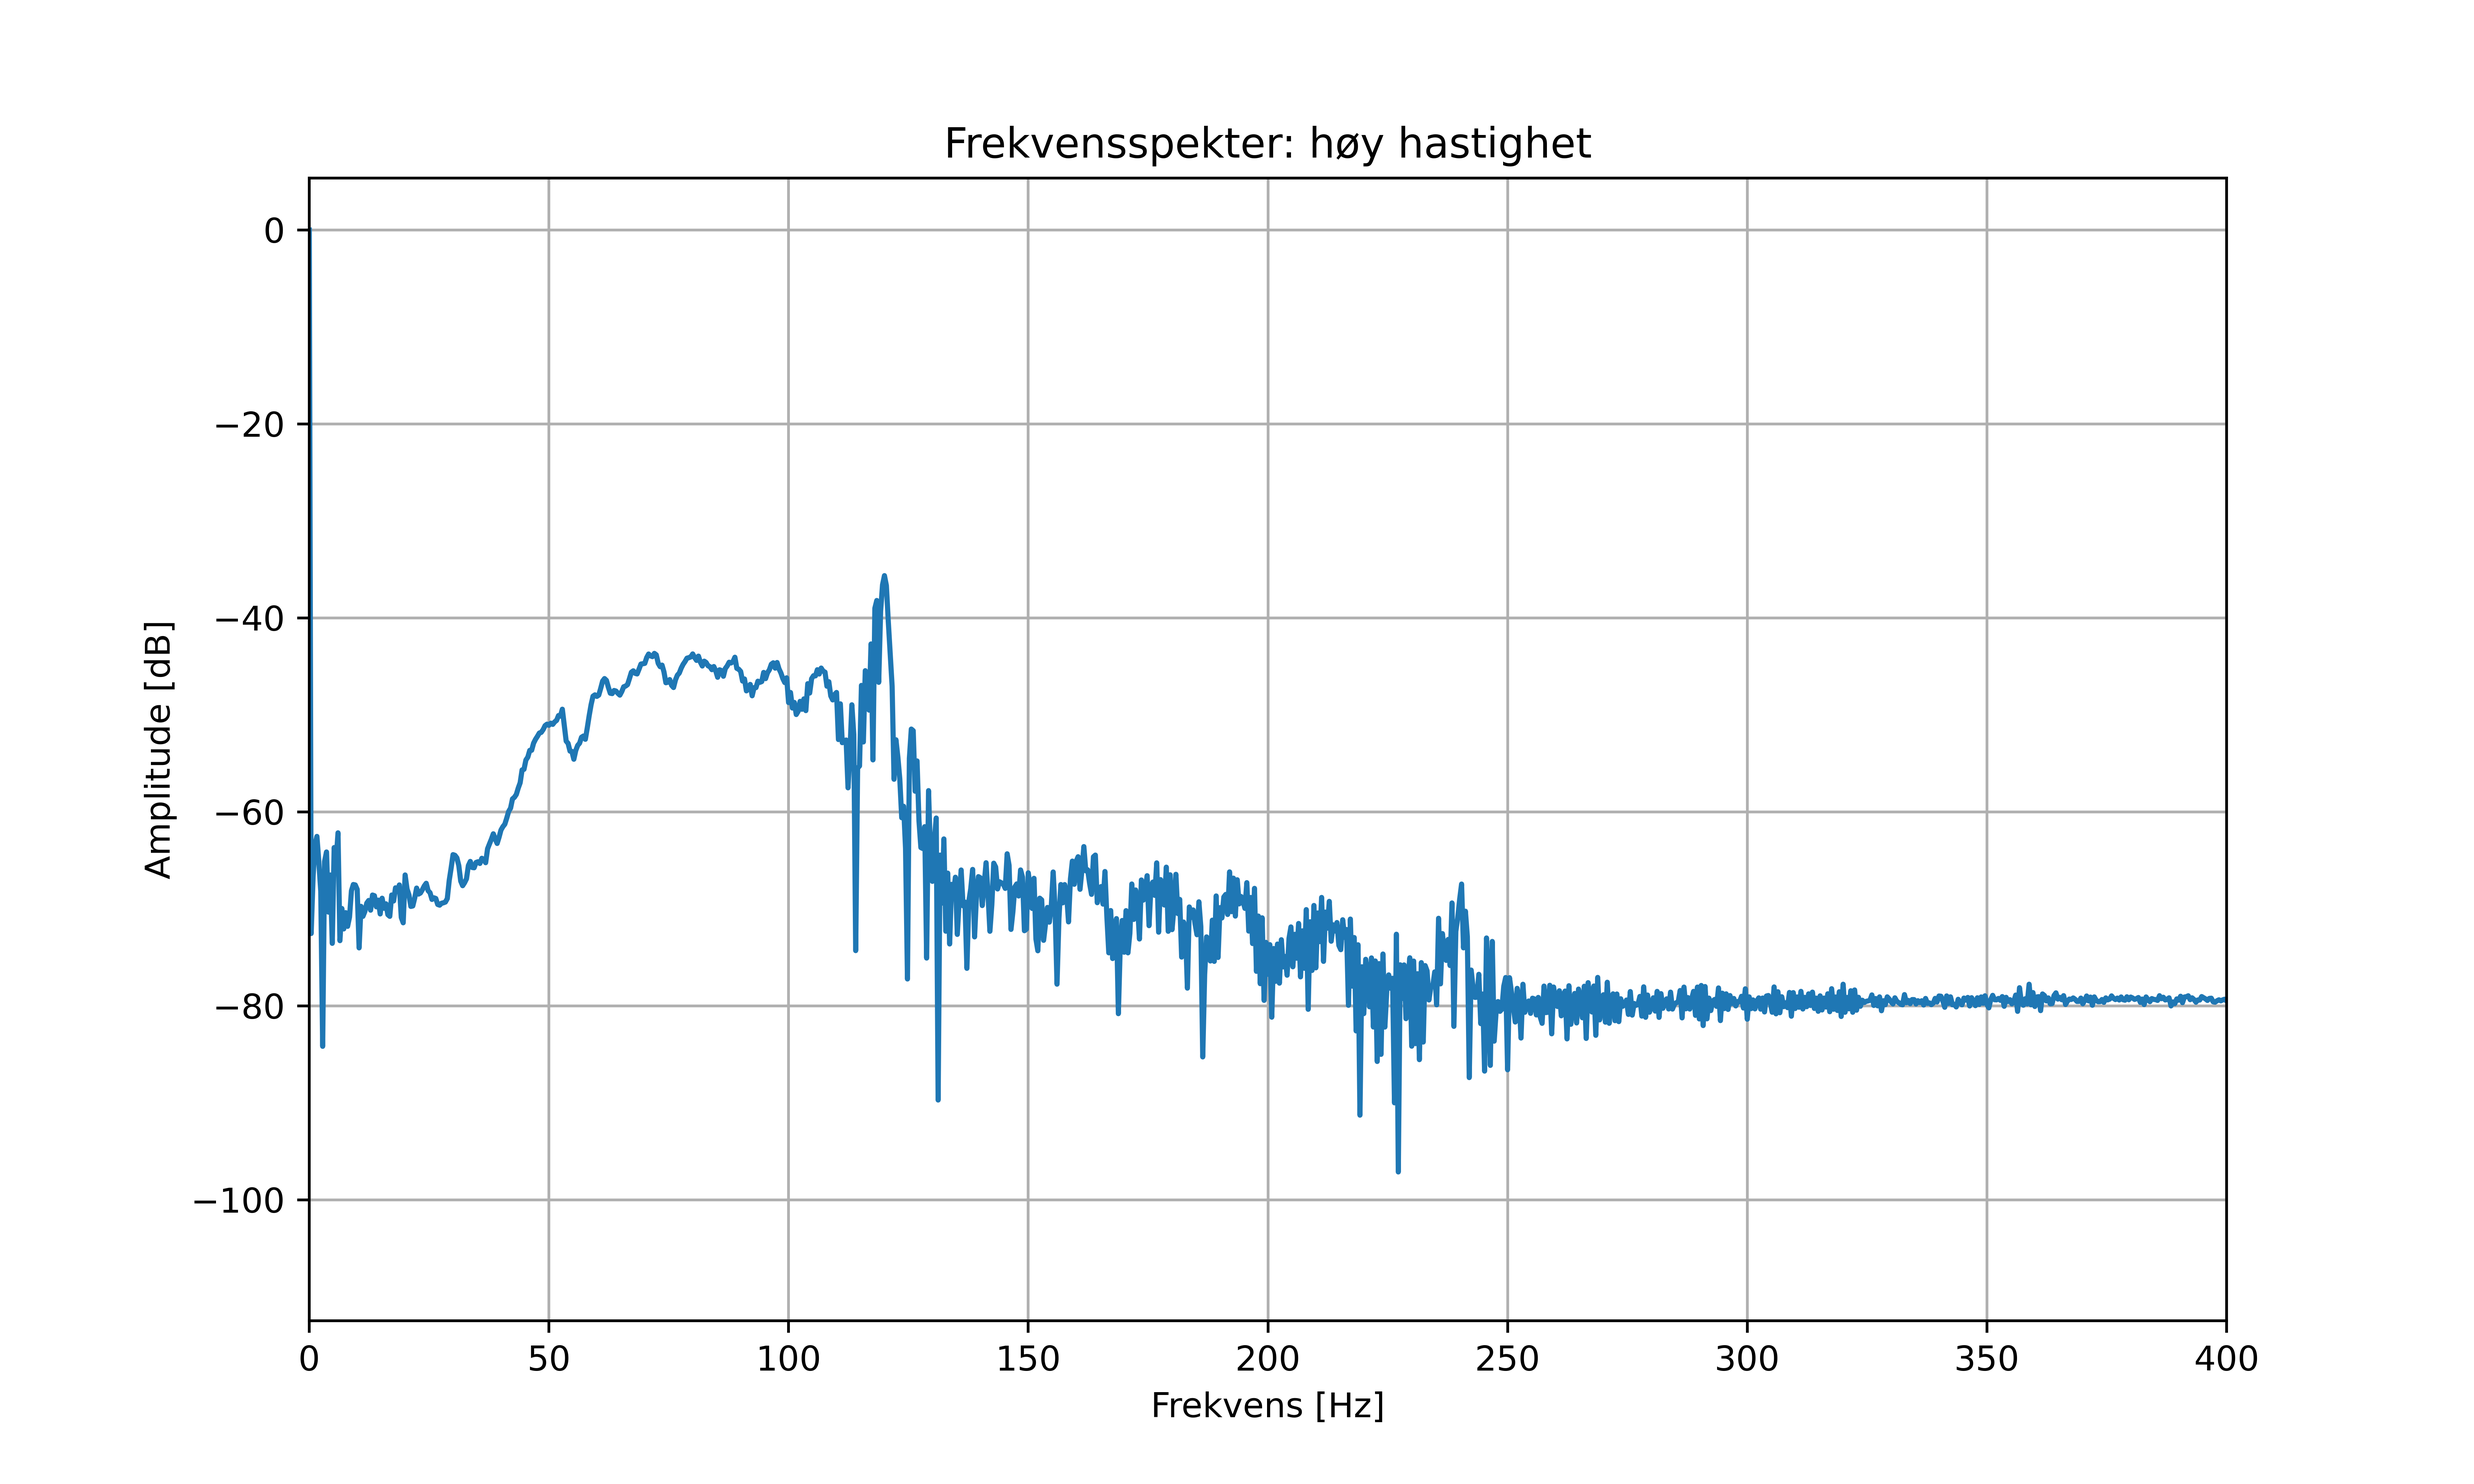
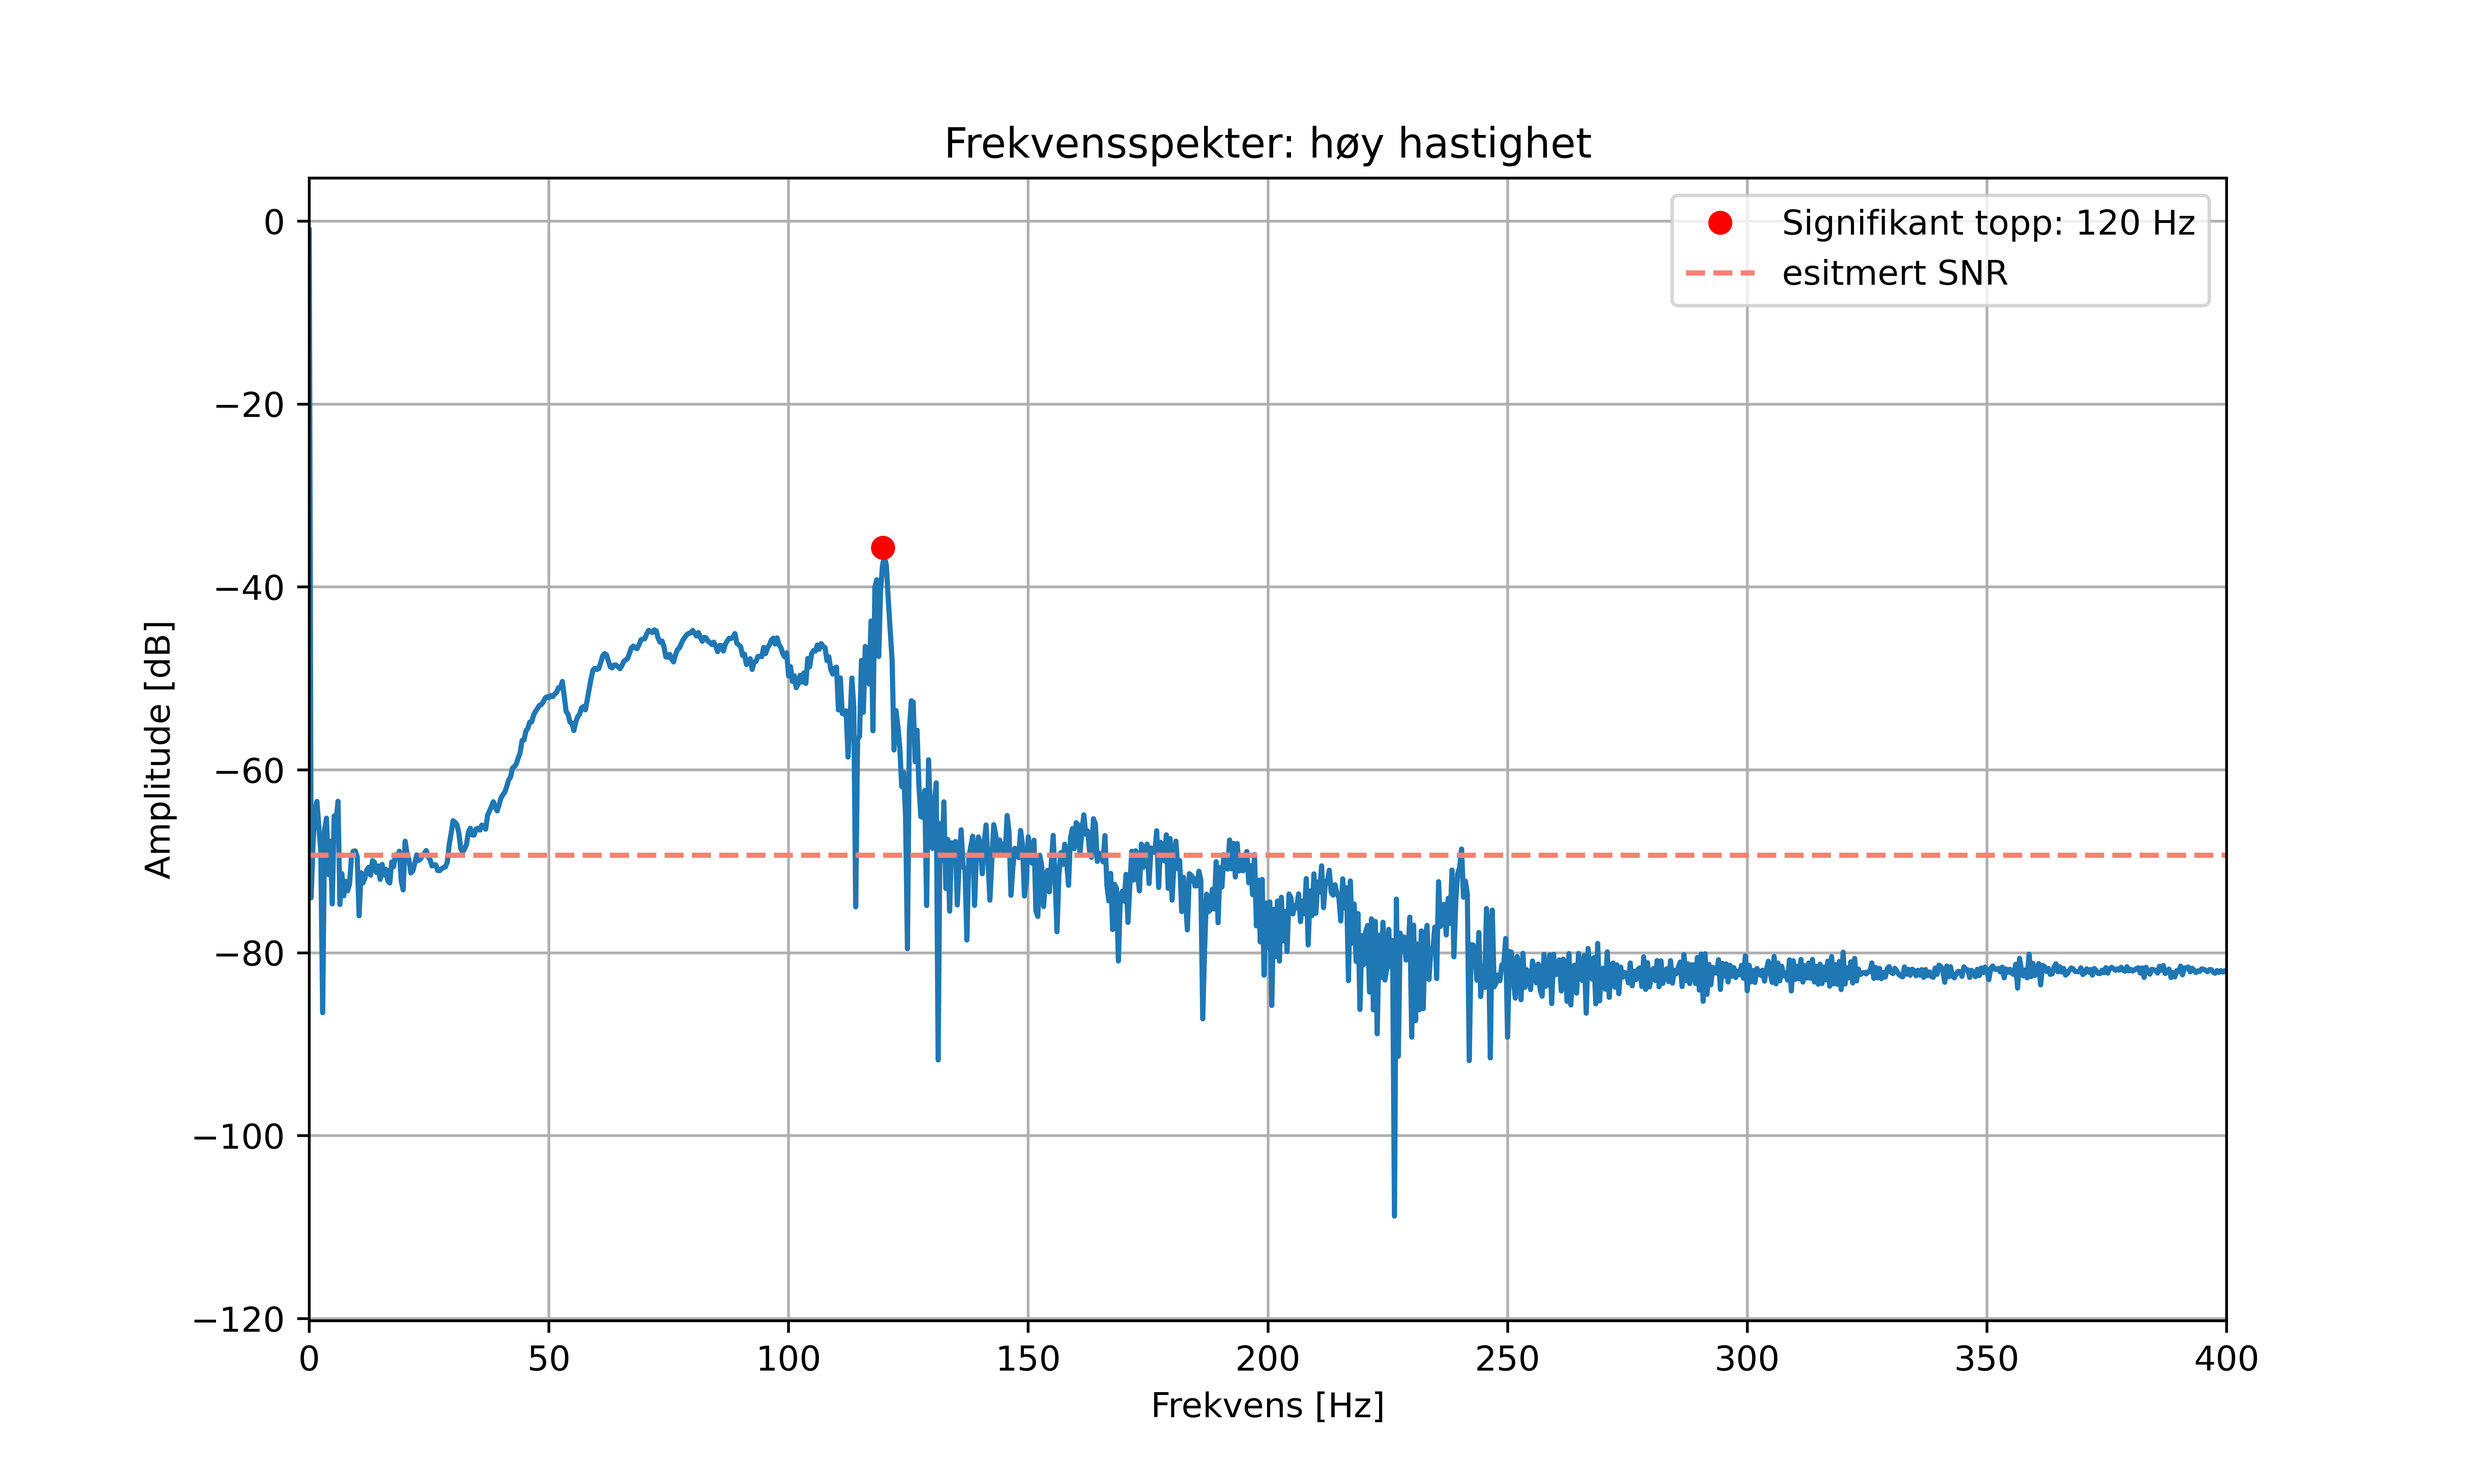
fft added

diff --git a/Lab4/fft_data.py b/Lab4/fft_data.py
@@ -62,7 +62,7 @@ if __name__ == "__main__":
     I_signal = detrend(channel_data)
     Q_signal = detrend(channel_data2)
 
-    cmpx_signal = channel_data + 1j*channel_data2
+    cmpx_signal = I_signal + 1j*Q_signal
 
     fft_data = np.fft.fft(cmpx_signal)
 
@@ -77,12 +77,16 @@ if __name__ == "__main__":
     magnitude_db_normalisert = magnitude_db - np.max(magnitude_db)
 
     plt.figure(figsize=(10, 6))
-    plt.plot(frekvenser[:n//2], magnitude_db_normalisert[:n//2], label = 'ADC 1') 
+    plt.plot(frekvenser[:n//2], magnitude_db_normalisert[:n//2]) 
+    plt.plot(119.7,-35.7,'ro', label = 'Signifikant topp: 120 Hz')
+    plt.axhline(y = -69.29, color = 'salmon', linestyle = '--', label = 'esitmert SNR')
     plt.xlabel('Frekvens [Hz]')
     plt.ylabel('Amplitude [dB]')
     plt.xlim(0,400)
+    plt.ylim(-100, 0)
     plt.grid()
+    plt.legend()
     #plt.ylim(0,400)
     plt.title('Frekvensspekter: høy hastighet')
-    plt.show()
-   # plt.savefig('frekvens_hoyhast1', dpi = 700)
+    #plt.show()
+    plt.savefig('frekvens_hoyhast1', dpi = 700)
